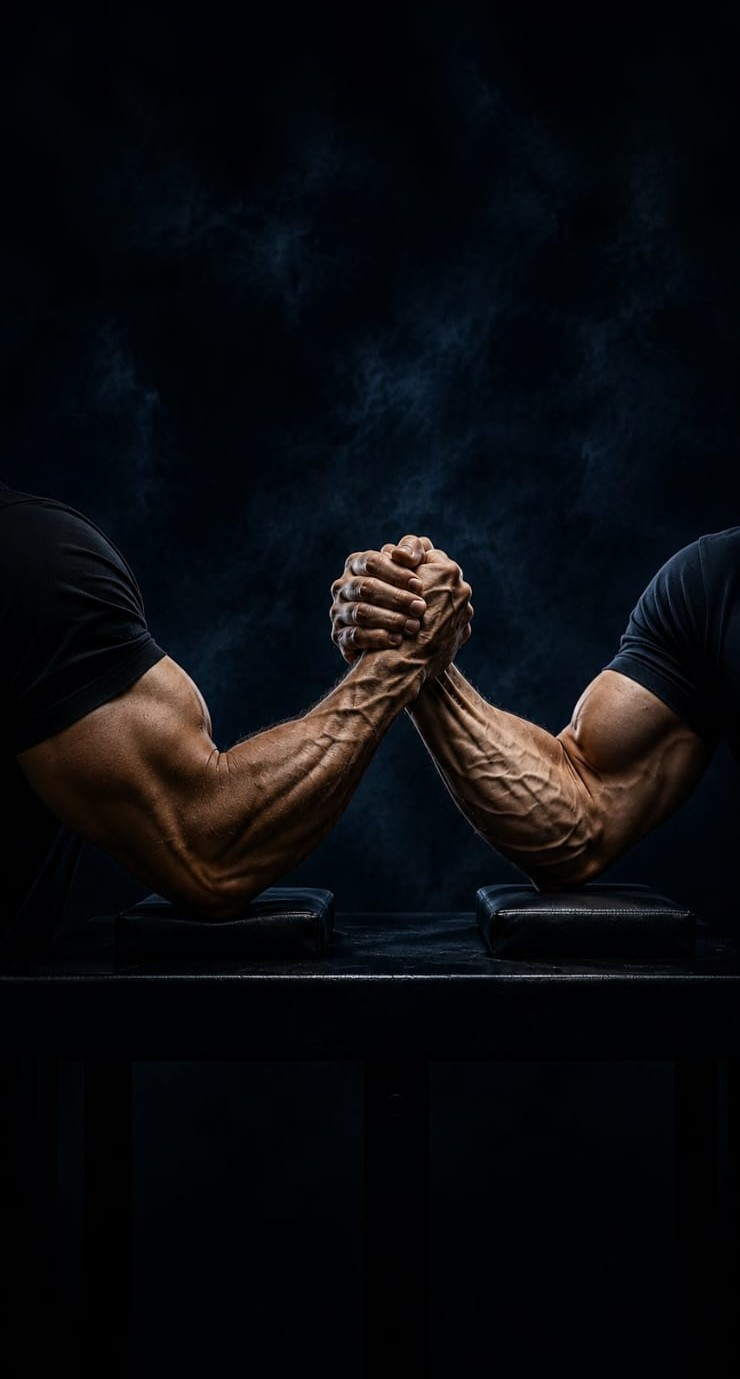
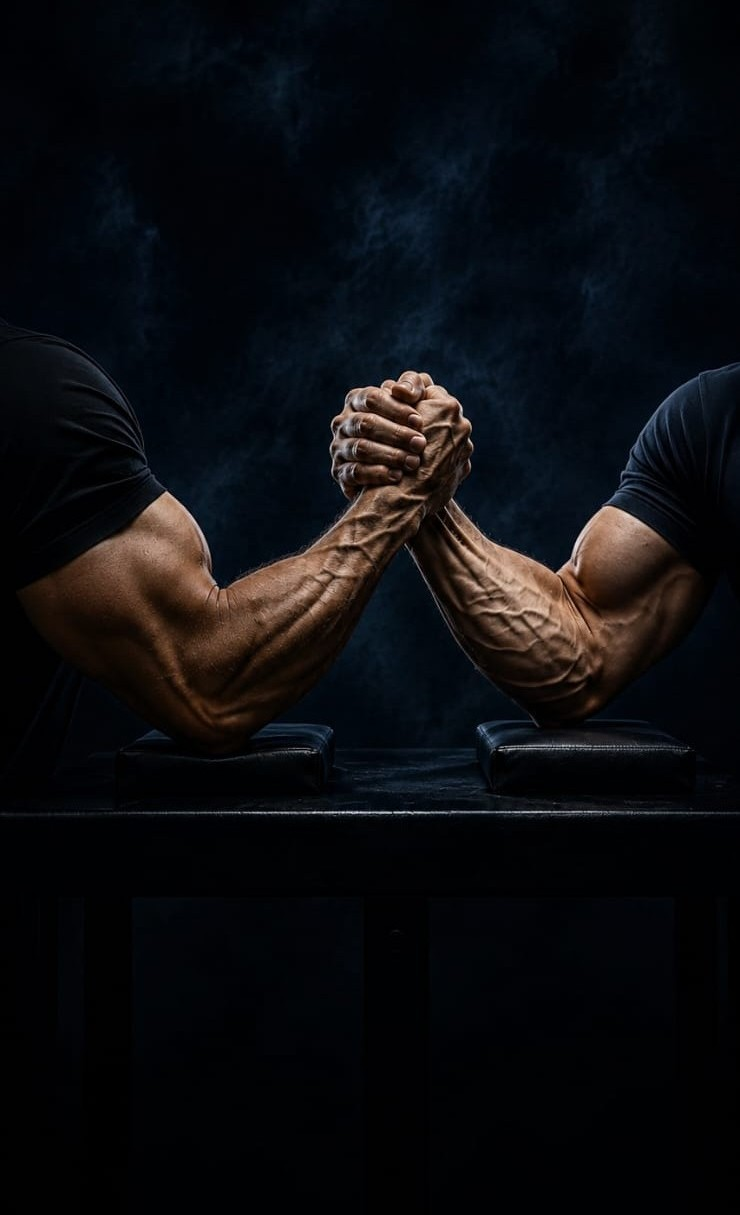
Add files via upload

diff --git a/style.css b/style.css
@@ -853,7 +853,9 @@ text-align: left;
 } 
  */
 
-
+* {
+    outline: 1px solid red;
+} 
 
 
 
@@ -863,7 +865,7 @@ text-align: left;
 
 .inicio {
 width: 100%;
- height: 720px;
+ height: 637px;
 
 }
 
@@ -879,7 +881,7 @@ width: 100%;
     
     font-size: 48px;
     margin: 0;
-    margin-top: 60px;
+    margin-top: 30px;
     margin-left: 18px;
   
    
@@ -900,14 +902,14 @@ width: 100%;
     font-size: 18px;
     
     margin: 0;
-    margin-top: 345px;
+    margin-top: 295px;
    margin-left: 18px;
 
 }
 
 .inicio-img {
    
-    height: 720px;
+    height: 637px;
     background-image: url(fotos/img\ inici\ cel.jpeg);
     background-size: contain;
     background-repeat: no-repeat;
@@ -1007,7 +1009,7 @@ width: 100%;
     height: 200px;
 }
 .entrenamiento h3{
-    font-size: 28px;
+    font-size: 20px;
 }
 
 .entrenamiento p{
